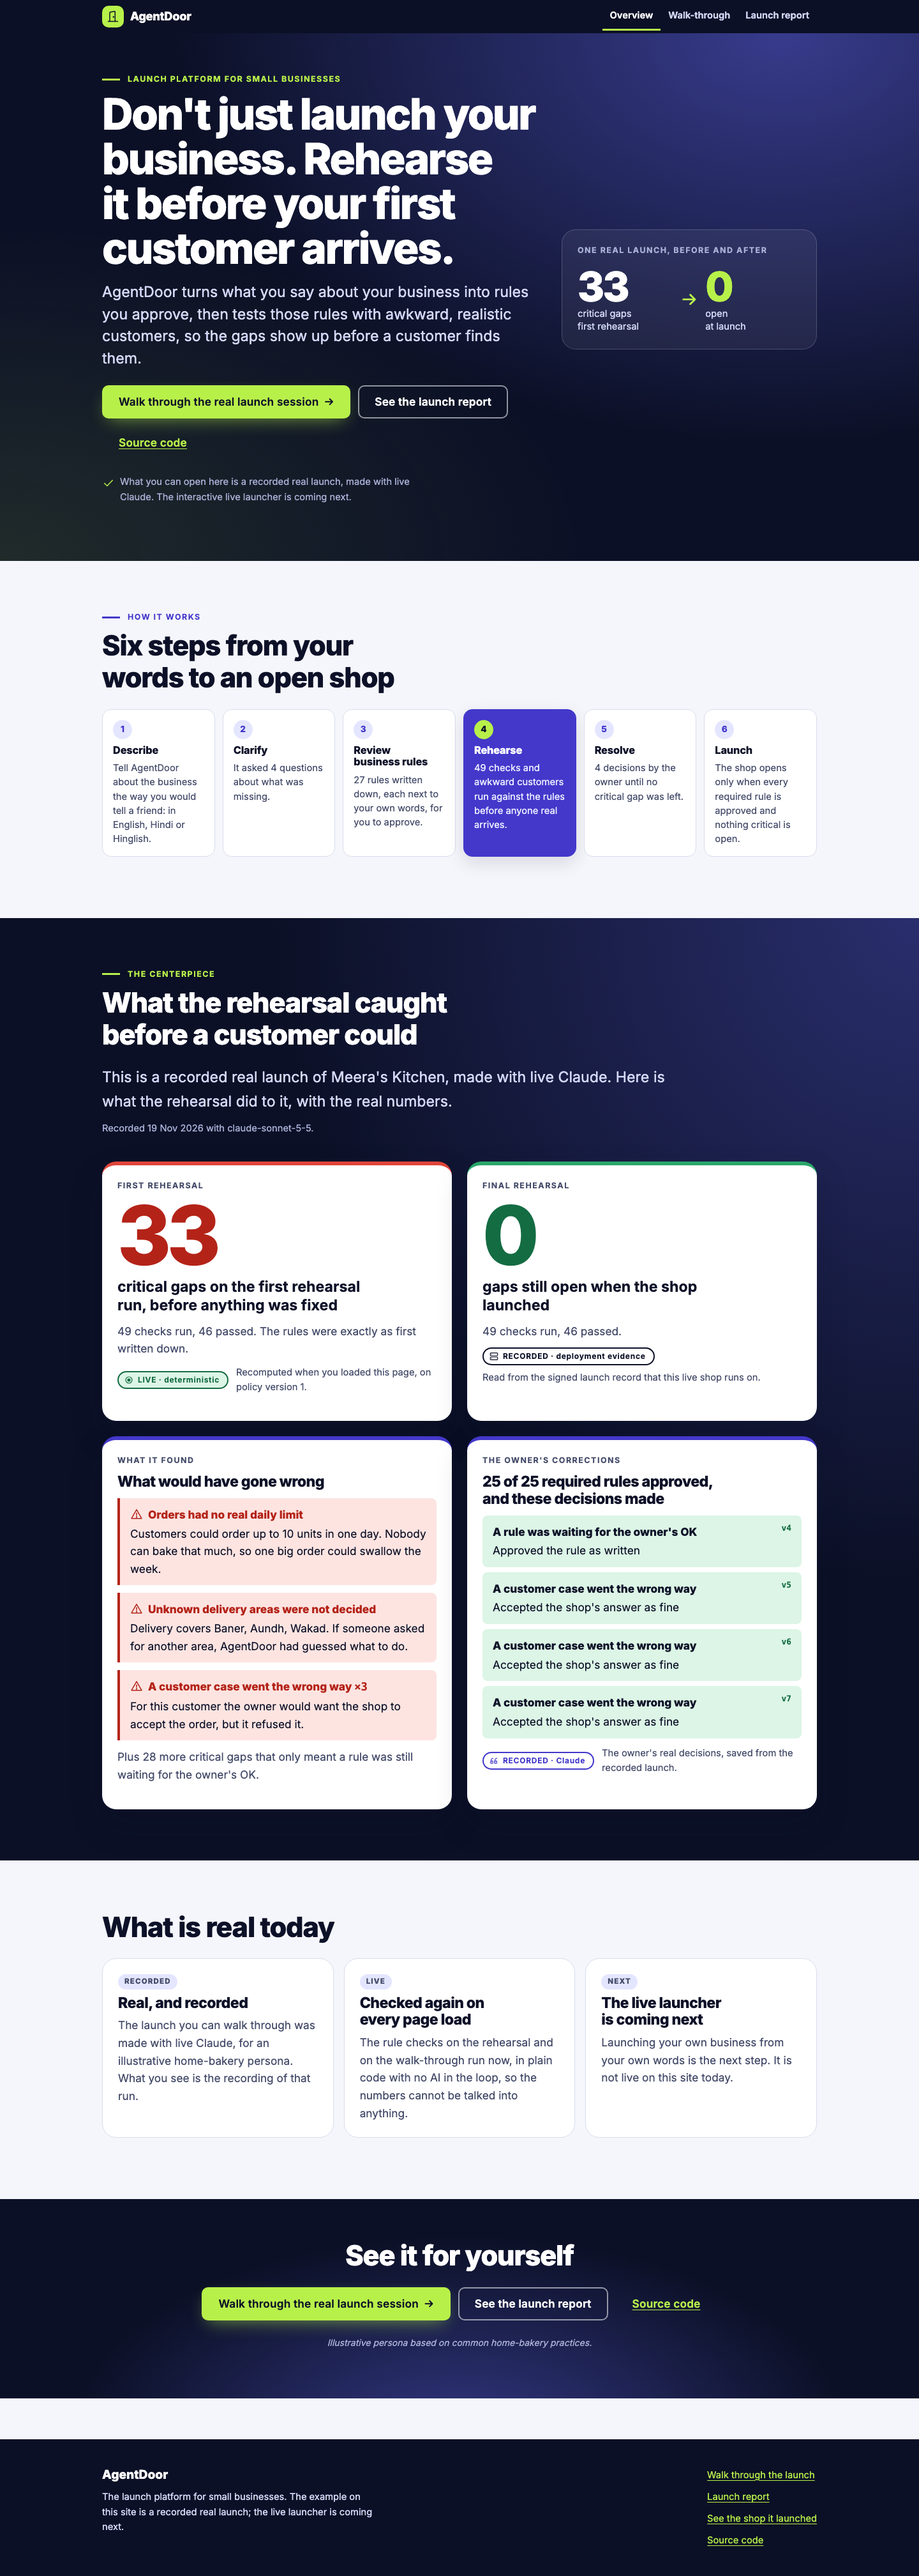
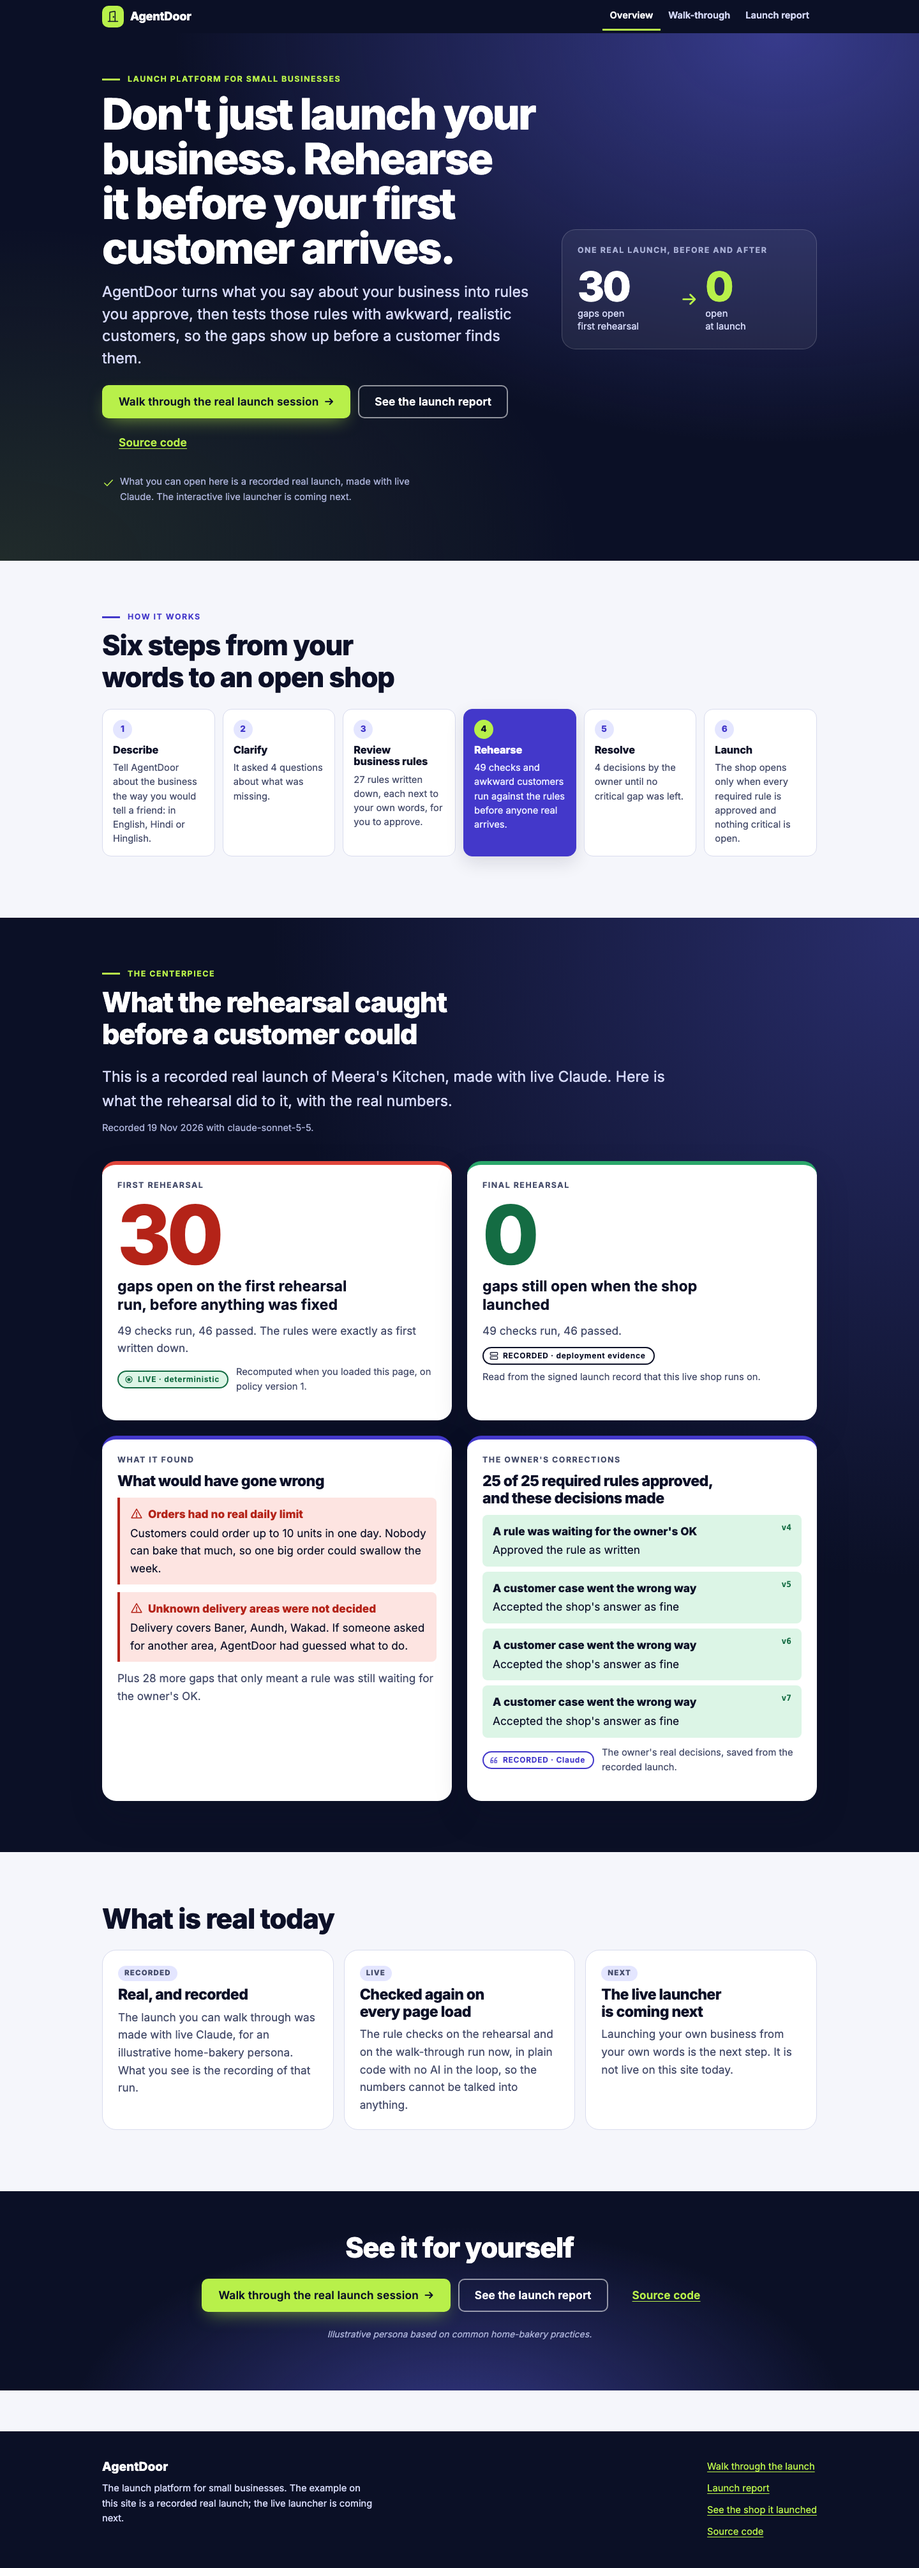
fix(shop): show open gaps on /launch so its first-run figure matches the launch report
The first-run figure counted accepted scenario gaps as well, so /launch showed 33 while the launch report showed 31 open. Both pages now use the open count, the gap cards list only open gaps, and the brief explains the recomputed first run next to the launcher's first rehearsal.

diff --git a/apps/shop/src/views/launch/rehearsal.ts b/apps/shop/src/views/launch/rehearsal.ts
@@ -14,7 +14,7 @@ function firstRun(s: LaunchStory): SafeHtml {
   return html`<article class="stage stage--first" aria-labelledby="stage-first-h">
     <p class="stage__tag">First rehearsal</p>
     <h3 id="stage-first-h" class="visually-hidden">The first rehearsal run</h3>
-    ${figure(s.first.gaps.critical, "critical gaps on the first rehearsal run, before anything was fixed", "bad")}
+    ${figure(s.first.gaps.open, "gaps open on the first rehearsal run, before anything was fixed", "bad")}
     <p class="stage__facts">${s.first.checks} checks run, ${s.first.passed} passed. The rules were exactly as first written down.</p>
     ${provenanceBadge({ kind: "live", note: `Recomputed when you loaded this page, on ${s.first.basis.split(",")[0]}.` })}
   </article>`;
@@ -29,7 +29,7 @@ function gapCards(s: LaunchStory): SafeHtml {
       <p class="gapitem__title">${icon("alert")}<span>${g.title}${g.count > 1 ? html` <span class="gapitem__count">×${g.count}</span>` : ""}</span></p>
       <p>${g.consequence}</p>
     </li>`)}</ul>
-    ${s.waitingForOwner > 0 ? html`<p class="stage__facts">Plus ${s.waitingForOwner} more critical gaps that only meant a rule was still waiting for the owner's OK.</p>` : ""}
+    ${s.waitingForOwner > 0 ? html`<p class="stage__facts">Plus ${s.waitingForOwner} more gaps that only meant a rule was still waiting for the owner's OK.</p>` : ""}
   </article>`;
 }
 

diff --git a/apps/shop/test/storefront.test.ts b/apps/shop/test/storefront.test.ts
@@ -181,8 +181,8 @@ describe("order page (/order)", () => {
 describe("AgentDoor landing (/launch)", () => {
   it("leads with the exact headline and the first-run critical-gap number taken from the recorded session", () => {
     const story = buildLaunchStory(session, launch.record, NOW);
-    const expected = liveRunFigures("First rehearsal run", runLive(session, 1, NOW)).gaps.critical;
-    expect(story.first.gaps.critical).toBe(expected);
+    const expected = liveRunFigures("First rehearsal run", runLive(session, 1, NOW)).gaps.open;
+    expect(story.first.gaps.open).toBe(expected);
     const page = launchPage(story);
     expect(page).toContain(`<h1 id="launch-h" class="ad-hero__title">${esc(LAUNCH_HEADLINE)}</h1>`);
     expect(LAUNCH_HEADLINE).toBe("Don't just launch your business. Rehearse it before your first customer arrives.");

diff --git a/apps/shop/src/views/launch/page.ts b/apps/shop/src/views/launch/page.ts
@@ -44,7 +44,7 @@ function hero(s: LaunchStory | null, repoUrl: string): SafeHtml {
       ${s
         ? html`<aside class="ad-hero__card" aria-label="Before and after the rehearsal">
             <p class="ad-hero__card-t">One real launch, before and after</p>
-            <p class="ad-hero__pair"><span><strong>${s.first.gaps.critical}</strong> critical gaps<br>first rehearsal</span><span class="ad-hero__arrow" aria-hidden="true">→</span><span><strong>${s.final.gaps.open}</strong> open<br>at launch</span></p>
+            <p class="ad-hero__pair"><span><strong>${s.first.gaps.open}</strong> gaps open<br>first rehearsal</span><span class="ad-hero__arrow" aria-hidden="true">→</span><span><strong>${s.final.gaps.open}</strong> open<br>at launch</span></p>
           </aside>`
         : ""}
     </div>

diff --git a/apps/shop/src/views/launch/story.ts b/apps/shop/src/views/launch/story.ts
@@ -68,7 +68,7 @@ function gapCards(session: TrySession, nowMs: number): { gaps: GapStory[]; waiti
   const policy = session.policyVersions[0]!;
   const groups = new Map<string, GapStory>();
   let waiting = 0;
-  for (const g of runLive(session, 1, nowMs).gaps.filter((x) => x.severity === "critical")) {
+  for (const g of runLive(session, 1, nowMs).gaps.filter((x) => x.severity === "critical" && !x.dismissed)) {
     if (WAITING_CODES.has(g.code)) {
       waiting += 1;
       continue;

diff --git a/docs/BRIEF.md b/docs/BRIEF.md
@@ -19,7 +19,7 @@ Judges: start at https://agentdoor.shop/try (replay of the real launcher session
 
 **Measured results** (19 Nov 2026, our own measurements).
 - 3 live Claude calls (claude-sonnet-5-5), $0.1467 for the whole launch.
-- Rehearsal: 10 critical gaps on the first run, 3 scenario gaps accepted as the owner's intent, final 0.
+- Rehearsal: the rules exactly as first written show 31 open gaps (28 are rules still waiting for the owner's approval), as recomputed on /launch and /launch-report; the launcher's first rehearsal in the session found 10 critical gaps; 3 scenario gaps were accepted as the owner's intent; final 0.
 - Deploy: 10 steps, 30.3 s.
 - Live MCP quote, order, restart and redeploy persistence, and stale-quote refusal.
 - 464 unit and integration and 54 end-to-end tests, zero serious or critical accessibility violations, 20 concurrent orders oversold zero, 18 of 19 security checklist items with evidence.
